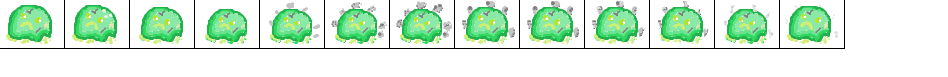
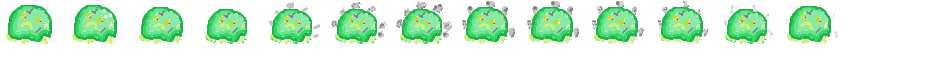
marian collides and dies to gloops!

Changed region(s): [[0.0, 0.6234, 0.8871, 0.6494], [0.52, 0.2857, 0.5506, 0.3117], [0.2447, 0.2857, 0.2753, 0.3117]]

diff --git a/src/MarianX/Core/GameCore.cs b/src/MarianX/Core/GameCore.cs
@@ -3,6 +3,7 @@ using MarianX.Diagnostics;
 using MarianX.Effects;
 using MarianX.Interface;
 using MarianX.Mobiles;
+using MarianX.Physics;
 using MarianX.Sprites;
 using MarianX.World.Platform;
 using Microsoft.Xna.Framework;
@@ -13,11 +14,13 @@ namespace MarianX.Core
 	public class GameCore : DebuggableGame
 	{
 		public static GameCore Instance { get; private set; }
-
-		private readonly ViewportManager viewportManager;
+		
 		private readonly IList<LevelBackground> levels;
 
+		public ViewportManager ViewportManager { get; private set; }
+
 		private Marian marian;
+		public MobileCollisionDetectionEngine MobileCollisionDetection { get; private set; }
 
 		public GameCore()
 		{
@@ -33,21 +36,20 @@ namespace MarianX.Core
 			};
 
 			IsMouseVisible = true;
-			viewportManager = new ViewportManager();
+			ViewportManager = new ViewportManager();
 			levels = new List<LevelBackground>();
 		}
 
 		protected override void Initialize()
 		{
-			viewportManager.Initialize();
+			ViewportManager.Initialize();
 
 			InitializeMap();
 			InitializeMarian();
 			InitializeEffects();
 			SetLevelByIndex(0);
 
-			Gloop gloop = new Gloop();
-			gloop.Move += viewportManager.NpcMove;
+			Gloop gloop = new Gloop(new Vector2(90, 60));
 			AddManagedContent(gloop);
 
 			base.Initialize();
@@ -71,7 +73,7 @@ namespace MarianX.Core
 		private void InitializeMarian()
 		{
 			marian = new Marian();
-			marian.Move += viewportManager.CharacterMove;
+			marian.Move += ViewportManager.CharacterMove;
 
 			AddManagedContent(marian);
 
@@ -80,6 +82,8 @@ namespace MarianX.Core
 			{
 				AddContent(collisionDetection);
 			}
+
+			MobileCollisionDetection = new MobileCollisionDetectionEngine(marian);
 		}
 
 		private void InitializeEffects()
@@ -103,7 +107,7 @@ namespace MarianX.Core
 		protected void AddManagedContent(IGameContent content)
 		{
 			base.AddContent(content);
-			viewportManager.Manage(content);
+			ViewportManager.Manage(content);
 		}
 
 		protected override void UpdateInput(GameTime gameTime)

diff --git a/src/MarianX/Mobiles/Gloop.cs b/src/MarianX/Mobiles/Gloop.cs
@@ -1,4 +1,5 @@
 using MarianX.Contents;
+using MarianX.Core;
 using MarianX.Effects;
 using MarianX.Enum;
 using MarianX.Physics;
@@ -27,11 +28,36 @@ namespace MarianX.Mobiles
 
 		private readonly GloopAnimation animation;
 
-		public Gloop()
+		public override Direction Direction
+		{
+			get
+			{
+				return base.Direction;
+			}
+			set
+			{
+				if (Direction != Direction.None && Direction == value)
+				{
+					return;
+				}
+				base.Direction = value;
+
+				animation.UpdateFace();
+				animation.Update();
+			}
+		}
+
+		private readonly Vector2 startPosition;
+
+		public Gloop(Vector2 startPosition)
 			: base(AssetName, settings)
 		{
-			BoundingBox = new GloopBoundingBox();
 			animation = new GloopAnimation(this);
+
+			BoundingBox = new GloopBoundingBox();
+			Move += GameCore.Instance.ViewportManager.NpcMove;
+
+			this.startPosition = startPosition;
 		}
 
 		public override void Initialize()
@@ -41,7 +67,7 @@ namespace MarianX.Mobiles
 			IdleEffects();
 			Speed = Vector2.Zero;
 			Direction = Direction.Right;
-			Position = TileMatrix.Instance.StartPosition;
+			Position = startPosition;
 		}
 
 		protected void IdleEffects()
@@ -68,8 +94,8 @@ namespace MarianX.Mobiles
 				return interpolation;
 			}
 
-			Vector2 interpolationPlusMargin = AddMargin(interpolation) + MagicNumbers.GloopVertigoMargin;
-			MoveResult predicted = Movement.CollisionDetection.CanMoveInterpolated(aabb, interpolationPlusMargin, DetectionType.Collision);
+			Vector2 movement = AddMargin(interpolation) + MagicNumbers.GloopVertigoMargin;
+			MoveResult predicted = Movement.CollisionDetection.CanMoveInterpolated(aabb, movement, DetectionType.Collision);
 
 			if (!predicted.HasFlag(MoveResult.BlockedOnNegativeX) &&
 				!predicted.HasFlag(MoveResult.BlockedOnPositiveX) &&

diff --git a/src/MarianX.World/Physics/FloatRectangle.cs b/src/MarianX.World/Physics/FloatRectangle.cs
@@ -4,6 +4,8 @@ namespace MarianX.World.Physics
 {
 	public struct FloatRectangle
 	{
+		private static readonly FloatRectangle Empty = new FloatRectangle();
+
 		public float X;
 		public float Y;
 		public float Width;
@@ -38,6 +40,22 @@ namespace MarianX.World.Physics
 		public static implicit operator FloatRectangle(Rectangle r)
 		{
 			return new FloatRectangle(r.X, r.Y, r.Width, r.Height);
+		}
+
+		public static bool operator ==(FloatRectangle a, FloatRectangle b)
+		{
+			if (a.X == b.X && a.Y == b.Y && a.Width == b.Width)
+				return a.Height == b.Height;
+			else
+				return false;
+		}
+
+		public static bool operator !=(FloatRectangle a, FloatRectangle b)
+		{
+			if (a.X == b.X && a.Y == b.Y && a.Width == b.Width)
+				return a.Height != b.Height;
+			else
+				return true;
 		}
 
 		public FloatRectangle Displace(Vector2 vector)
@@ -76,6 +94,12 @@ namespace MarianX.World.Physics
 				return Y < value.Y + value.Height;
 			}
 			return false;
+		}
+
+		public bool Intersects(FloatRectangle value)
+		{
+			FloatRectangle rectangle = Intersect(this, value);
+			return rectangle != Empty;
 		}
 
 		public static FloatRectangle Intersect(FloatRectangle source, FloatRectangle target)

diff --git a/src/MarianX/Physics/MobileCollisionDetectionEngine.cs b/src/MarianX/Physics/MobileCollisionDetectionEngine.cs
@@ -1,0 +1,42 @@
+using System.Collections.Generic;
+using MarianX.Events;
+using MarianX.Mobiles;
+
+namespace MarianX.Physics
+{
+	public class MobileCollisionDetectionEngine
+	{
+		private readonly Marian marian;
+		private readonly IList<Npc> npcs;
+		private readonly MobileCollisionDetection collisionDetection;
+
+		public MobileCollisionDetectionEngine(Marian marian)
+		{
+			this.marian = marian;
+
+			npcs = new List<Npc>();
+			collisionDetection = new MobileCollisionDetection();
+
+			marian.Move += marian_Move;
+		}
+
+		public void AddNpc(Npc npc)
+		{
+			npcs.Add(npc);
+			npc.Move += npc_Move;
+		}
+
+		private void marian_Move(Mobile sender, MoveArgs args)
+		{
+			foreach (Npc npc in npcs)
+			{
+				collisionDetection.Perform(marian, npc);
+			}
+		}
+
+		private void npc_Move(Mobile sender, MoveArgs args)
+		{
+			collisionDetection.Perform(marian, (Npc)sender);
+		}
+	}
+}

diff --git a/src/MarianX/Physics/Movement.cs b/src/MarianX/Physics/Movement.cs
@@ -10,10 +10,10 @@ namespace MarianX.Physics
 {
 	public class Movement
 	{
-		public CollisionDetection CollisionDetection { get; private set; }
+		public StaticCollisionDetection CollisionDetection { get; private set; }
 		public InterpolationCalculator InterpolationCalculator { get; private set; }
 
-		public Movement(CollisionDetection collisionDetection, InterpolationCalculator interpolationCalculator)
+		public Movement(StaticCollisionDetection collisionDetection, InterpolationCalculator interpolationCalculator)
 		{
 			CollisionDetection = collisionDetection;
 			InterpolationCalculator = interpolationCalculator;

diff --git a/src/MarianX/Effects/GloopAnimation.cs b/src/MarianX/Effects/GloopAnimation.cs
@@ -6,8 +6,8 @@ namespace MarianX.Effects
 {
 	public class GloopAnimation : Animation
 	{
-		private readonly FrameSet faceRight = new FrameSet { Row = 0, Frames = 13 };
-		private readonly FrameSet faceLeft = new FrameSet { Row = 0, Frames = 13, Effects = SpriteEffects.FlipHorizontally };
+		private readonly FrameSet faceLeft = new FrameSet { Row = 0, Frames = 13, Tilt = 0.01f };
+		private readonly FrameSet faceRight = new FrameSet { Row = 0, Frames = 13, Tilt = -0.01f, Effects = SpriteEffects.FlipHorizontally };
 
 		public GloopAnimation(Mobile mobile)
 			: base(mobile)

diff --git a/src/MarianX/Core/ContentBasedGame.cs b/src/MarianX/Core/ContentBasedGame.cs
@@ -11,6 +11,8 @@ namespace MarianX.Core
 
 		protected SpriteBatch spriteBatch { get; private set; }
 
+		public bool CanRaiseEvents { get; protected set; }
+
 		public ContentBasedGame()
 		{
 			contents = new List<IGameContent>();
@@ -41,6 +43,8 @@ namespace MarianX.Core
 			}
 
 			base.LoadContent();
+
+			CanRaiseEvents = true;
 		}
 
 		protected override void UnloadContent()

diff --git a/src/MarianX/Mobiles/Mobile.cs b/src/MarianX/Mobiles/Mobile.cs
@@ -1,4 +1,5 @@
 using MarianX.Contents;
+using MarianX.Core;
 using MarianX.Diagnostics;
 using MarianX.Enum;
 using MarianX.Events;
@@ -41,7 +42,7 @@ namespace MarianX.Mobiles
 
 		private void RaiseMoved(Vector2 oldPosition, Vector2 currentPosition)
 		{
-			if (Move != null)
+			if (Move != null && GameCore.Instance.CanRaiseEvents)
 			{
 				Move(this, new MoveArgs
 				{

diff --git a/src/MarianX/Diagnostics/DiagnosticCollisionDetection.cs b/src/MarianX/Diagnostics/DiagnosticCollisionDetection.cs
@@ -13,7 +13,7 @@ using Microsoft.Xna.Framework.Graphics;
 
 namespace MarianX.Diagnostics
 {
-	public class DiagnosticCollisionDetection : CollisionDetection, IGameContent
+	public class DiagnosticCollisionDetection : StaticCollisionDetection, IGameContent
 	{
 		private SquareGrid movementGrid;
 		private SquareGrid matchGrid;

diff --git a/src/MarianX/Physics/MobileCollisionDetection.cs b/src/MarianX/Physics/MobileCollisionDetection.cs
@@ -1,0 +1,17 @@
+using MarianX.Mobiles;
+
+namespace MarianX.Physics
+{
+	public class MobileCollisionDetection
+	{
+		public void Perform(Marian marian, Npc npc)
+		{
+			var aabb = marian.BoundingBox.Bounds;
+			var aabbNpc = npc.BoundingBox.Bounds;
+			if (aabbNpc.Intersects(aabb))
+			{
+				marian.Die();
+			}
+		}
+	}
+}

diff --git a/src/MarianX/Contents/SpriteSheet.cs b/src/MarianX/Contents/SpriteSheet.cs
@@ -26,6 +26,18 @@ namespace MarianX.Contents
 			get { return settings.Height; }
 		}
 
+		public override float Tilt
+		{
+			get
+			{
+				return frameSet.Tilt;
+			}
+			set
+			{
+				frameSet.Tilt = value;
+			}
+		}
+
 		public SpriteSheet(string assetName, SpriteSheetSettings settings)
 			: base(assetName)
 		{

diff --git a/src/MarianX/Mobiles/Npc.cs b/src/MarianX/Mobiles/Npc.cs
@@ -1,4 +1,5 @@
 using MarianX.Contents;
+using MarianX.Core;
 
 namespace MarianX.Mobiles
 {
@@ -7,6 +8,7 @@ namespace MarianX.Mobiles
 		protected Npc(string assetName, SpriteSheetSettings settings)
 			: base(assetName, settings)
 		{
+			GameCore.Instance.MobileCollisionDetection.AddNpc(this);
 		}
 	}
 }
